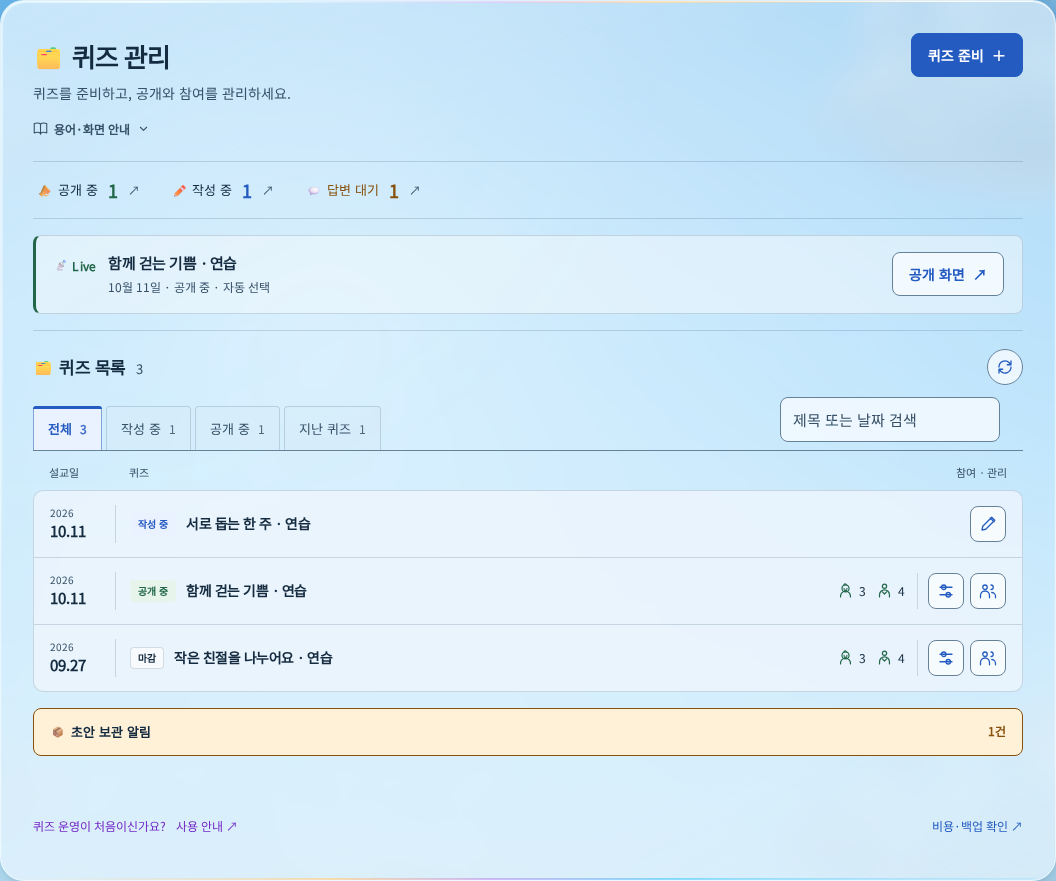
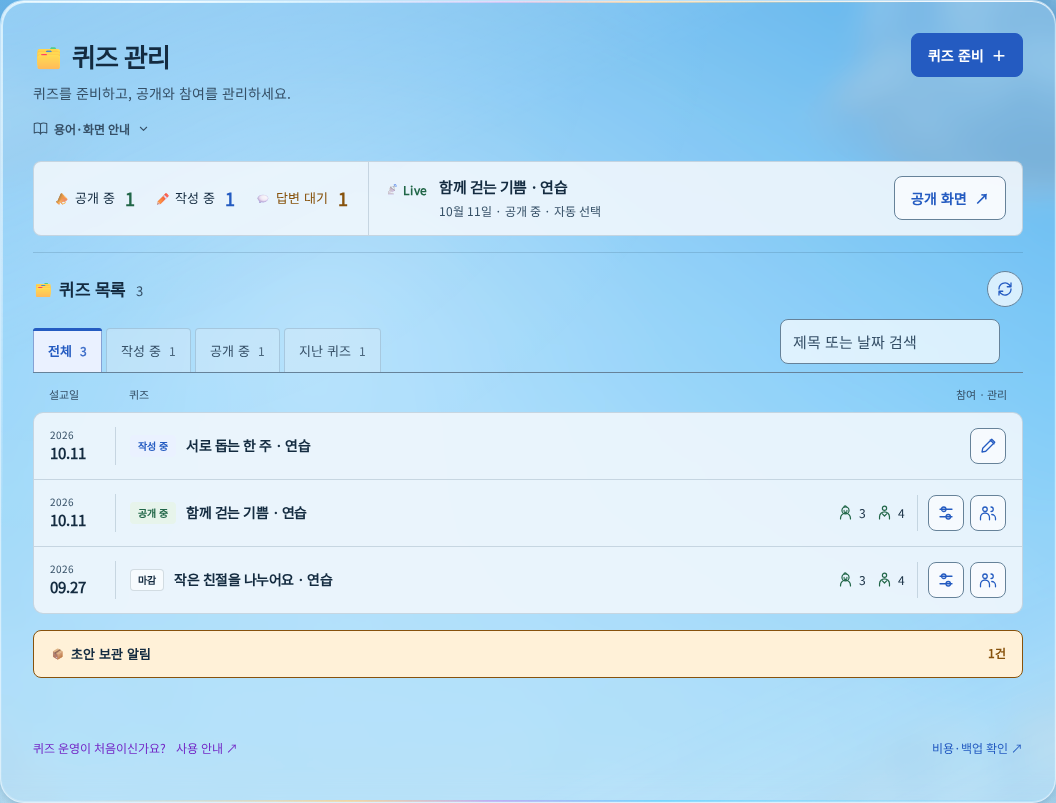
Separate clear admin shells and combine live overview

diff --git a/src/features/admin-weekly/dashboard.module.css b/src/features/admin-weekly/dashboard.module.css
@@ -1,13 +1,14 @@
 .page { display: grid; gap: 16px; min-width: 0; }
-.overview { display: flex; flex-wrap: wrap; align-items: center; gap: 4px 24px; padding-block: 10px; border-block: 1px solid var(--line); }
+.statusBar { display: flex; align-items: stretch; min-width: 0; border: 1px solid var(--line); border-radius: 8px; background: var(--admin-board-surface,var(--glass-solid)); }
+.overview { display: flex; flex-shrink: 0; align-items: center; gap: 12px; padding: 12px 16px; }
 .overview > :is(button,a) { display: flex; align-items: center; gap: 10px; min-height: 36px; padding: 0 4px; border: 0; border-radius: 4px; background: transparent; color: var(--ink); text-decoration: none; font-size: 13px; }
 .overview > :is(button,a):hover { background: var(--glass-soft); }
 .overview strong { font-size: 18px; font-weight: 600; font-variant-numeric: tabular-nums; }
-.overview > :is(button,a) > span:last-child { color: var(--muted); font-size: 12px; }
+.overview > :is(button,a) > span:last-child { display: none; }
 .overview > :first-child strong { color: var(--ui-success); }
 .overview > :nth-child(2) strong { color: var(--ui-action); }
 .overview > :nth-child(3) strong { color: var(--ui-attention); }
-.featured { display: flex; align-items: center; gap: 16px; padding: 14px 18px; background: color-mix(in srgb,var(--glass-solid) 60%,transparent); border: 1px solid var(--line); border-left: 3px solid var(--ui-success); border-radius: 8px; }
+.featured { display: flex; flex: 1; min-width: 0; align-items: center; gap: 12px; padding: 12px 16px; border-left: 1px solid var(--line); }
 .featuredCopy { flex: 1; display: grid; grid-template-columns: auto minmax(0,1fr); align-items: baseline; column-gap: 12px; min-width: 0; }
 .caption { display: inline-flex; align-items: center; color: var(--ui-success); font-size: 12px; font-weight: 700; letter-spacing: .02em; }
 :global(.sky-app:not(.home-shell) .admin-main) .featured h3 { margin: 0; font-family: 'Noto Sans KR',sans-serif; font-size: 15px; font-weight: 600; line-height: 1.7; overflow-wrap: anywhere; }
@@ -20,7 +21,7 @@
 .library > [data-admin-list-toolbar] { margin-bottom: 12px; }
 .search { width: min(100%,220px); }
 .search input { width: 100%; min-height: 40px; padding: 8px 12px; border: 1px solid var(--line); border-radius: 6px; background: var(--glass-field); color: var(--ink); font: inherit; font-size: 13px; }
-.quizList { margin: 0; padding: 0; list-style: none; border: 1px solid var(--line); border-radius: 10px; overflow: clip; background: color-mix(in srgb,var(--glass-solid) 76%,transparent); }
+.quizList { margin: 0; padding: 0; list-style: none; border: 1px solid var(--line); border-radius: 10px; overflow: clip; background: var(--admin-board-surface,var(--glass-solid)); }
 .quizList > li + li { border-top: 1px solid var(--line); }
 .quizRow { display: grid; grid-template-columns: 66px minmax(0,1fr) auto; gap: 14px; align-items: center; min-height: 66px; padding: 10px 16px; }
 .quizRow:hover, .quizRow:focus-within { background: var(--ui-action-bg); }
@@ -51,9 +52,14 @@
 .footer a { min-height: 44px; display: inline-flex; gap: 10px; align-items: center; text-underline-offset: 4px; }
 .footer > a:first-child { color: var(--ui-guide); }
 .alert { padding: 12px 16px; border-left: 3px solid var(--danger); background: var(--glass-reading); }
+@media (max-width: 1100px) {
+ .statusBar { flex-direction: column; }
+ .overview { justify-content: space-between; }
+ .featured { border-left: 0; border-top: 1px solid var(--line); }
+}
 @media (max-width: 760px) {
- .overview { gap: 4px 10px; }
- .overview > :is(button,a) { gap: 6px; font-size: 12px; }
+ .overview { gap: 6px; padding: 10px 12px; }
+ .overview > :is(button,a) { gap: 6px; font-size: 12px; padding-inline: 0; }
  .overview strong { font-size: 16px; }
  .featured { flex-wrap: wrap; padding: 12px; gap: 10px; }
  .featuredCopy { flex-basis: 100%; grid-template-columns: minmax(0,1fr); }
@@ -69,3 +75,5 @@
  .boardHeading > :last-child { display: none; }
 }
 @media (pointer: coarse) { .participant, .overview > :is(button,a) { min-height: 44px; } }
+
+@media (max-width: 360px) { .overview > :is(button,a) > span:first-child > [aria-hidden] { display: none; } }

diff --git a/docs/design/phase-9/admin-boards/review.html b/docs/design/phase-9/admin-boards/review.html
@@ -7,9 +7,9 @@ body{margin:0;background:#eaf4fa;color:#17334a;font:15px/1.7 system-ui,sans-seri
 </style>
 <main>
 <h1>관리자 실제 화면과 생성 시안</h1>
-<p>2026년 10월 14일 적용 화면입니다. 실제 React UI에 연습 자료를 표시해 촬영했습니다. 이미지를 누르면 원본을 크게 볼 수 있습니다.</p>
+<p>2026년 10월 14일 적용 화면입니다. 바깥 창은 투명하게, 현황과 목록은 선명한 바탕으로 구분했습니다. 실제 React UI에 연습 자료를 표시해 촬영했으며, 이미지를 누르면 원본을 크게 볼 수 있습니다.</p>
 <nav aria-label="실제 관리자 화면"><a href="/admin">퀴즈 관리 열기</a><a href="/admin/submissions">참여 기록 열기</a><a href="/admin/privacy-requests">문의·삭제 요청 열기</a></nav>
-<section><h2>퀴즈 관리</h2><p>짧은 운영 요약과 Live 영역 아래에 설교일·제목·참여 인원·작업 아이콘을 모았습니다.</p><figure class="quiz"><figcaption>실제 화면 · 연습 자료</figcaption><a href="quiz-actual.png"><img src="quiz-actual.png" alt="실제 퀴즈 관리: 간결한 운영 요약과 설교일 기준 게시판"></a></figure></section>
+<section><h2>퀴즈 관리</h2><p>공개 중·작성 중·답변 대기 현황과 Live 퀴즈를 한 행으로 묶었습니다. 그 아래 게시판에는 설교일·제목·참여 인원·작업 아이콘을 모았습니다.</p><figure class="quiz"><figcaption>실제 화면 · 연습 자료</figcaption><a href="quiz-actual.png"><img src="quiz-actual.png" alt="실제 퀴즈 관리: 한 행의 현황·Live와 설교일 기준 게시판"></a></figure></section>
 <section><h2>참여 기록</h2><p>행을 펼치면 왼쪽에는 답안과 코멘트, 오른쪽에는 처리 폼이 나타납니다. 시안의 정오답 색 대신 실제 제출값을 표시합니다.</p><div class="compare"><figure><figcaption>실제 화면 · 연습 자료</figcaption><a href="submissions-actual.png"><img src="submissions-actual.png" alt="실제 참여 기록: 한 행을 펼친 답안과 관리 폼, 나머지 짧은 행"></a></figure><figure><figcaption>기존 생성 시안 · 배치 참고</figcaption><a href="submissions-reference.png"><img src="submissions-reference.png" alt="참여 기록의 기존 생성 시안"></a></figure></div></section>
 <section><h2>문의·삭제 요청</h2><p>접힌 행에는 이름·분류·상태·날짜와 한 줄 미리보기가 보입니다. 펼치면 전체 원문과 상태·답변 폼을 확인할 수 있습니다.</p><div class="compare"><figure><figcaption>실제 화면 · 연습 자료</figcaption><a href="inquiries-actual.png"><img src="inquiries-actual.png" alt="실제 문의 게시판: 펼친 요청의 상태 선택과 답변 입력, 접힌 나머지 요청"></a></figure><figure><figcaption>기존 생성 시안 · 배치 참고</figcaption><a href="inquiries-reference.png"><img src="inquiries-reference.png" alt="문의 게시판의 기존 생성 시안"></a></figure></div></section>
 <small>기존 생성 이미지는 재사용했습니다. 실제 화면 이미지에는 개인 자료나 실제 운영 답안을 포함하지 않았습니다.</small>

diff --git a/src/features/admin-weekly/Dashboard.tsx b/src/features/admin-weekly/Dashboard.tsx
@@ -47,9 +47,10 @@ export function Component() {
   const featured = items.find(q => q.quizSetId === data?.homeQuiz?.quizSetId);
   const rows = items.filter(q => (filter === "all" || (filter === "draft" ? isDraft(q) : q.status === filter)) && `${q.title} ${q.sermonDate}`.includes(search.trim()));
   const due = cleanup?.items.filter(q => q.state === "blocked" || (q.state !== "purged" && q.dueAt && Date.parse(q.dueAt) - checkedAt <= 86_400_000)) ?? [];
-  return <div className={styles.page}>
+  return <div className={styles.page} data-admin-board="quizzes">
     <AdminBoardHeader title="퀴즈 관리" description="퀴즈를 준비하고, 공개와 참여를 관리하세요." terms={["초안", "발행", "자동 선택", "대표 지정"]} screenshots={["dashboard"]} actions={<ButtonLink variant="primary" to="/admin/new">퀴즈 준비 <span aria-hidden="true">＋</span></ButtonLink>}/>
     {message && <p className={styles.alert} role="alert">{message}</p>}
+    <div className={styles.statusBar} data-admin-summary>
     <div className={styles.overview} aria-label="운영 요약">
       <button type="button" onClick={() => setFilter("published")}><span><AdminEmoji>📣</AdminEmoji>공개 중</span><strong>{data ? published.length : "—"}</strong><span aria-hidden="true">↗</span></button>
       <button type="button" onClick={() => setFilter("draft")}><span><AdminEmoji>✏</AdminEmoji>작성 중</span><strong>{data ? drafts.filter(q => !q.expired).length : "—"}</strong><span aria-hidden="true">↗</span></button>
@@ -62,6 +63,7 @@ export function Component() {
       </div>
       {featured?.slug && <ButtonLink to={`/quiz/${featured.slug}`}>공개 화면 <span aria-hidden="true">↗</span></ButtonLink>}
     </section>}
+    </div>
     <section className={styles.library} aria-labelledby="quiz-library-heading" aria-busy={loading}>
       <div className={styles.sectionHeading}><h3 id="quiz-library-heading"><AdminLabel text="퀴즈 목록"/> <span>{items.length}</span></h3>
         <AdminRefreshButton disabled={loading} onClick={() => { setMessage(""); setLoading(true); setAttempt(v => v + 1); }} label="운영 상태 새로고침" title="퀴즈 목록 새로고침"/>

diff --git a/src/features/admin-weekly/Submissions.tsx b/src/features/admin-weekly/Submissions.tsx
@@ -25,7 +25,7 @@ export function Component(){
       setMessage('참여 기록의 처리 결과를 저장했습니다.');setAttempt(a=>a+1);
     }catch(error){setMessage(error instanceof Error?error.message:'처리 결과를 확인하지 못했습니다.');}finally{setBusy(false);}}
   const visible=items?.filter(i=>(level==='all'||i.difficulty===level)&&(state==='all'||i.status===state));
-  return <div className={record.page}>
+  return <div className={record.page} data-admin-board="submissions">
     <AdminBoardHeader terms={["숨김", "개인정보 삭제", "Top N"]} screenshots={["submissions"]} title="참여 기록" description="퀴즈별 답안과 코멘트를 확인하고 공개 여부를 관리하세요." actions={<AdminRefreshButton label="제출 목록 새로고침" disabled={busy||!id} onClick={()=>{setMessage('');setAttempt(a=>a+1);}}/>}/>
     <div className={record.fields}>
       <label>관리할 퀴즈<select value={id} disabled={busy} onChange={e=>{setResult(null);setMessage('');setQuery({quiz:e.target.value});}}><option value="">퀴즈 선택</option>{quizzes.filter(q=>['published','archived'].includes(q.status)).map(q=><option key={q.quizSetId} value={q.quizSetId}>{q.sermonDate} · {q.title}</option>)}</select></label>

diff --git a/src/styles/interior.css b/src/styles/interior.css
@@ -130,3 +130,16 @@ body[data-time=night] .admin-layout {
 .sky-app:not(.home-shell) .admin-main .secondary-button:not(:disabled):not([aria-disabled=true]) { color: var(--ui-action); }
 .sky-app:not(.home-shell) .admin-main .secondary-button:hover:not(:disabled):not([aria-disabled=true]) { background: var(--ui-action-bg); border-color: var(--ui-action); }
 @media (forced-colors: active) { .sky-app:not(.home-shell) .admin-main .secondary-button:not(:disabled):not([aria-disabled=true]) { color: ButtonText; } }
+
+/* Board shells show the sky; a stronger surface belongs to the records themselves. */
+.sky-app .admin-main:has(> [data-admin-board]) {
+  --admin-board-surface: color-mix(in srgb,var(--glass-solid) 90%,transparent);
+  background: var(--glass-clear);
+}
+body[data-transparency=reduced] .admin-main:has(> [data-admin-board]) { --admin-board-surface: var(--glass-solid); }
+@media (prefers-reduced-transparency: reduce) {
+  .sky-app .admin-main:has(> [data-admin-board]) { --admin-board-surface: var(--glass-solid); }
+}
+@media (forced-colors: active) {
+  .sky-app .admin-main:has(> [data-admin-board]) { --admin-board-surface: Canvas; background: Canvas; }
+}

diff --git a/src/features/admin-weekly/PrivacyInbox.tsx b/src/features/admin-weekly/PrivacyInbox.tsx
@@ -16,7 +16,7 @@ export function Component(){
   const [filter,setFilter]=useState('pending');
   const pending=(status:string)=>status==='received'||status==='reviewing';
   const visible=items?.filter(item=>filter==='all'||(filter==='pending'?pending(item.status):!pending(item.status)));
-  return <div className={record.page}>
+  return <div className={record.page} data-admin-board="inquiries">
     <AdminBoardHeader terms={["처리 완료", "개인정보 삭제"]} screenshots={["privacy"]} title="문의·삭제 요청" description="문의 내용을 확인하고 답변을 남기세요."/>
     <AdminFilterTabs label="문의 상태 필터" value={filter} onChange={setFilter} options={([['pending','답변 대기'],['done','처리한 문의'],['all','전체']] as const).map(([value,label])=>({value,label,count:items?.filter(item=>value==='all'||(value==='pending'?pending(item.status):!pending(item.status))).length??'—'}))}>
       <AdminRefreshButton label="문의 목록 새로고침" disabled={busy} onClick={()=>{setMessage('');setAttempt(a=>a+1);}}/>

diff --git a/src/features/admin-weekly/records.module.css b/src/features/admin-weekly/records.module.css
@@ -1,5 +1,5 @@
 .page { display: grid; gap: 16px; min-width: 0; }
-.list { display: grid; gap: 0; list-style: none; padding: 0; margin: 0; border: 1px solid var(--line); border-radius: 10px; background: color-mix(in srgb,var(--glass-solid) 76%,transparent); min-width: 0; overflow: clip; }
+.list { display: grid; gap: 0; list-style: none; padding: 0; margin: 0; border: 1px solid var(--line); border-radius: 10px; background: var(--admin-board-surface,var(--glass-solid)); min-width: 0; overflow: clip; }
 .list:empty { display: none; }
 .fields { display: grid; grid-template-columns: minmax(0,2fr) minmax(0,1fr) minmax(0,1fr); gap: 12px; align-items: end; padding-bottom: 16px; border-bottom: 1px solid var(--line); }
 .fields label { display: grid; gap: 6px; min-width: 0; font-size: 12px; color: var(--muted); }

diff --git a/docs/HANDOFF.md b/docs/HANDOFF.md
@@ -2,18 +2,18 @@
 
 ## 현재 작업과 Git
 
-**P9-23 기존 시안에 맞춘 세 관리자 게시판 — 로컬 완료.** `/home/onegem/work/bibleQuiz`, main `d3091ec` / clean에서 재개했다. 이번 커밋 제목은 `Match admin boards to existing design references`다. 정확한 마지막 해시와 작업 폴더는 `git log -1`·`git status --short`로 확인한다. 후속 보정은 같은 P9-23에서 처리한다.
+**P9-23 세 게시판의 투명 창과 현황·Live 통합 — 로컬 완료.** `/home/onegem/work/bibleQuiz`, main `face652` / clean에서 재개했다. 이번 커밋 제목은 `Separate clear admin shells and combine live overview`다. 정확한 마지막 해시와 작업 폴더는 `git log -1`·`git status --short`로 확인한다. 후속 보정은 같은 P9-23에서 처리한다.
 
 ## 변경과 검사
 
-- `AdminListTools`의 AdminBoardHeader: 고딕 제목·오른쪽 동작·접힌 용어/화면 안내를 세 페이지에서 공유한다. Dashboard의 요약/Live/목록 표면·간격을 줄이고 설교일/인원/정사각형 작업 링크는 유지한다.
-- `AdminRecord`는 행 전체 native details다. 펼친 참여는 답안/관리, 문의는 원문 아래 상태/답변을 좌우 배치하고 모바일은 한 열이다. 입력 유지·기존 API/확인/삭제/충돌 보호와 처리 이력을 보존한다. 문의의 관련 퀴즈 링크는 펼친 원문 오른쪽에 있다.
-- 최초 PC/모바일34건 중32통과·2실패는 모바일 summary 안의 링크 클릭 충돌이었다. UI에서 링크를 분리한 뒤 관련48건 및 최종 PC/모바일/Firefox9건 통과. 최종 lint/typecheck/build, 합성 자료 캡처2회 통과. 기존 router POP/NO_COLOR·fontkit/chunk 경고는 유지한다.
-- 실제5173 세 경로의 네 시간대 ×1440/390/320px·펼침/접힘60상태 및 최종 모바일40상태에서 넘침/페이지 오류/API 쓰기0. 입력 보존·Enter/Space·새로고침 중앙/크기도 확인했다. PC 닫힌 행은 퀴즈66px, 참여72~73px, 문의98~99px. 두 시안·실제 주요 PNG를 직접 비교했다.
-- 설명용 PNG3종과 비교 페이지용 실제 UI3장을 합성 GET 자료로 촬영했다. 기존5개 설명 자산과 시안2장 보존. 비교 페이지의 이미지5개는 HTTP200/image/png·디코딩·320px 넘침 없음 확인. 새 이미지의 사용자 기기 표시 확인과 구별한다.
-- 상세 변경·최초 실패·재검사·한계는 [P9-23 기록](work/P9-23.md#기존-시안에-맞춘-세-게시판-재구현), ignored 증거는 `.wrangler/releases/p9-23/reference-*`다. 전체check/전체E2E·Safari/실기기/화면 읽기 프로그램은 이번 범위에서 실행하지 않았다.
+- Dashboard/Submissions/PrivacyInbox의 바깥 창만 맑은 유리로 전환했다. 현황·목록에는 공통 시간대별90% 바탕을 두고 펼친 내용의 읽기 층은 보존한다. 선명하게/투명도 감소·강제 색상은 불투명 대체 표면을 유지한다.
+- Dashboard 현황3개와 Live를 한 행으로 합쳤다. 1100px 이하에서는 같은 영역의 두 줄이며320px에서도 이름/숫자를 유지한다. 기존 선택/필터/링크·새로고침·접기와 입력·자료는 보존했다.
+- 관련 게시판/운영 요약/유리 E2E PC·모바일14건, lint/typecheck, 합성 자료 캡처1건 통과. NO_COLOR 경고는 기존 환경 경고다. 이번 보정에서는 build/전체check/전체E2E·Firefox를 반복하지 않았다. 직전 `face652`의 빌드/Firefox 검사와 구별한다.
+- 실제5173의 세 경로·네 시간대 ×1440/390/320px·접힘/펼침60상태에서 넘침/페이지 오류/API 쓰기0. PC 현황/Live 같은 행, 새로고침 정렬·키보드/입력 보존 확인. 낮/밤 선명하게·강제 색상4상태도 확인했다. 주요 화면 PNG를 직접 열어 대조했다.
+- 설명용 PNG3종과 비교용 실제 UI3장을 합성 GET 자료로 재촬영했다. 다른5개 설명 자산·기존 시안2장 보존. 비교 페이지 이미지5개의 HTTP200/image/png·디코딩·320px 넘침 없음을 확인했으며 사용자 기기의 표시 확인과 구별한다.
+- [P9-23 현재 기록](work/P9-23.md#투명한-창과-현황live-한-행), ignored 증거 `.wrangler/releases/p9-23/clear-boards-*`. Safari/실기기/화면 읽기 프로그램·원격 반영은 미검증이다.
 
-폐기한 접근: 본문/여러 도구 줄을 계속 노출하는 행, summary 안에 이동 링크를 섞기, 시안 가상 정오답/사진을 실제 데이터로 만들기, 시안만 만들고 UI 적용으로 보고하기. 이전 매뉴얼·필터의 실패 재시도·공통 접기 정렬·색상/아이콘은 보존했다.
+폐기한 접근: 바깥 창까지 같은 읽기 바탕을 덮기, 현황과 Live를 별도 큰 영역으로 나누기, 모바일 한 행을 강제해 내용을 자르기. 이전 매뉴얼·필터 재시도·접기 정렬·공통 게시판/버튼은 보존한다.
 
 ## 실행과 다음 첫 작업
 
@@ -26,7 +26,7 @@
 
 도구는 검증된 `/bin/bash`, `login:false`, 명시 workdir, `require_escalated` 승인 검토 경로를 쓴다. 시작 전 ENOENT를 WSL 단절로 판단하거나 승인 거부를 우회하지 않는다. 이미지는 확인된HTTP/첨부로 보여주며 WSL 경로 Markdown만 보내지 않는다.
 
-시작 Pro 잔여86% × 사용자 지정10 =860%, 별도5시간 창 없음. 다음 구현 전 사용량을 확인한다. 읽기 순서: AGENTS → PROJECT_CONTEXT → DECISIONS → STATUS → HANDOFF → implementation 관련 명세 → P9-23 → Git 상태/diff/log.
+시작 Pro 잔여84% × 사용자 지정10 =840%, 별도5시간 창 없음. 다음 구현 전 사용량을 확인한다. 읽기 순서: AGENTS → PROJECT_CONTEXT → DECISIONS → STATUS → HANDOFF → implementation 관련 명세 → P9-23 → Git 상태/diff/log.
 
 push/배포·실제 자료 쓰기·AI 호출·새 의존성은 없다. Preview는 P9-14 소스 `0fbde84` / version `cd6efb0e-2c05-4401-b0bf-692bdf18c5b1`, Production은 P9-04 소스 `37b7254` / version `7aea6843-5288-42da-9bef-bc673e1d9dfe` 그대로다.
 

diff --git a/docs/work/P9-23.md b/docs/work/P9-23.md
@@ -195,6 +195,17 @@ Git 제외 증거는 `.wrangler/releases/p9-23/editorial/`: `e2e-admin.log`, `e2
 
 증거는 ignored `.wrangler/releases/p9-23/reference-*`의 실행 로그·JSON·실화면 캡처다. 디자인 정본/결정/상태/인계·자산 목록을 갱신하고 검토한 파일만 로컬 커밋한다. 새 의존성·AI 호출·기존 로컬 자료 쓰기·원격 변경·push/배포는 없다. 폐기한 접근: 시안만 만들고 실제 적용으로 보고하기, 행마다 본문/도구 버튼을 계속 노출하기, 접기 summary 안에 별도 이동 링크를 섞기, 시안의 가상 정오답을 실제 데이터처럼 표현하기.
 
+## 투명한 창과 현황·Live 한 행
+
+2026-10-14. 사용자 후속 요청으로 main `face652` / clean에서 같은 P9-23을 재개했다. 경로 `/home/onegem/work/bibleQuiz`, 시작 Pro 잔여84% × 사용자 기준10 =840%, 별도5시간 창 없음. 추천 GPT-6.1-sol/medium. 기존 생성 시안을 재사용했다.
+
+- Dashboard/Submissions/PrivacyInbox의 세 바깥 창에만 맑은 유리 바탕을 적용했다. 현황과 목록은 공통 `--admin-board-surface`(기존 시간대 불투명색90%)를 사용하고 펼친 내용의 읽기 층은 보존한다. 선명하게/투명도 감소·강제 색상의 대체 표면을 유지했다.
+- Dashboard의 현황3개와 Live를 한 영역·한 행으로 합쳤다. 1100px 이하에서는 같은 영역 안의 두 줄로 이어지며320px에서도 현황 이름과 숫자가 함께 보인다. 필터/링크·데이터·공개 퀴즈 선택·새로고침·행 접기·키보드/입력 보존은 바꾸지 않았다.
+- 관련 `admin-boards`/`admin-overview`/`admin-glass` Chromium PC·모바일 E2E14건, lint/typecheck, 합성 자료 캡처1건 모두 통과했다. 실제5173의 세 경로 × 네 시간대 ×1440/390/320px·펼침/접힘60상태에서 가로 넘침/페이지 오류/API 쓰기0. PC 현황·Live의 같은 행 정렬, 새로고침 중심/크기, 키보드·입력 유지를 확인했다. 낮/밤 선명하게·강제 색상4상태도 넘침 없이 확인했다. 주요 네 시간대·320px·펼친 밤 화면을 직접 열어 대조했다.
+- 설명용 dashboard/submissions/privacy PNG3종과 비교 페이지 실제 UI3장을 합성 GET으로 다시 촬영했다. 나머지5개 설명 자산·기존 생성 시안2장은 보존했다. 비교 페이지의 이미지5개 HTTP200/image/png·디코딩·320px 넘침 없음을 확인했다. 사용자 기기의 새 이미지 표시 확인과는 구별한다.
+
+증거는 ignored `.wrangler/releases/p9-23/clear-boards-*`다. 이번 작은 표면·배치 보정에서는 build/전체check/전체E2E·Firefox·Safari·실기기·화면 읽기 프로그램 검사를 반복하지 않았다. 직전 재구현의 빌드/Firefox 통과 기록과 이번 검사 범위를 구별한다. 문서·자산 정보를 갱신하고 로컬 커밋한다. 기존5173 자료·의존성·AI·원격·push/배포는 바꾸지 않았다. 폐기한 접근: 바깥 창까지 같은 읽기 바탕으로 채우기, 현황과 Live를 별도 큰 영역으로 나누기, 작은 화면까지 한 행을 강제해 글자를 잘라내기.
+
 ## 한계와 보존
 
 이모지의 모양은 기기의 시스템 글꼴에 따라 달라진다. WSL의 미설치 글꼴로 인한 빈 네모는 캡처에서만 이미 설치된 Windows 글꼴을 읽어 해결했고 앱에 글꼴을 배포하지 않는다. 새 화면 예시는 연습 자료이며 실제 운영 검증 증거가 아니다. 실기기·화면 읽기 프로그램·원격 인증/배포는 이번 검증 범위에 포함하지 않는다. Phase/배포 단위의 전체 필수 검사는 별도 경계에서 수행한다.

diff --git a/docs/design/phase-9/admin-boards/README.md b/docs/design/phase-9/admin-boards/README.md
@@ -10,17 +10,17 @@ HTTP 확인 주소: `http://localhost:5173/docs/design/phase-9/admin-boards/subm
 
 2026-10-14 사용자 재현 요청에 따라 실제 `/admin`, `/admin/submissions`, `/admin/privacy-requests`를 다시 적용했다. 기존에는 본문과 도구 버튼이 항상 보였으나 이제 시안처럼 짧은 행 전체를 펼친다. 참여는 답안/관리, 문의는 상태/답변을 좌우로 배치하고 모바일에서는 위아래로 놓는다. 문의의 관련 퀴즈 링크는 행 클릭과 겹치지 않도록 펼친 본문에 둔다.
 
-시안의 개별 행 틈은 사용자의 연속 게시판 요청에 따라 없앴다. 가상 정오답 색·인물 사진은 만들지 않았고 실제 답안 좌표/입력값과 기존 선 아이콘을 쓴다. 하늘·투명 표면·다섯 의미 색상은 유지한다. 퀴즈 관리도 같은 표면/타이포에 맞춰 요약과 Live를 줄이고66px 행을 사용한다.
+시안의 개별 행 틈은 사용자의 연속 게시판 요청에 따라 없앴다. 가상 정오답 색·인물 사진은 만들지 않았고 실제 답안 좌표/입력값과 기존 선 아이콘을 쓴다. 하늘·투명 표면·다섯 의미 색상은 유지한다. 바깥 창은 맑은 유리, 핵심 현황·목록·펼친 내용은 선명한 바탕으로 구분했다. 퀴즈 관리의 현황3개와 Live는 한 행으로 합쳤고66px 목록 행을 유지한다. 작은 화면에서는 같은 현황 영역 안에서 두 줄로 이어진다.
 
-적용 진입점은 `AdminBoardHeader`/`AdminListTools`·`AdminRecord`다. 수치·동작은 [디자인 정본](../../../spec/design.md#p9-23-후속--시안에-맞춘-세-게시판), 실제 검사는 [작업 기록](../../../work/P9-23.md#기존-시안에-맞춘-세-게시판-재구현)을 따른다.
+적용 진입점은 `AdminBoardHeader`/`AdminListTools`·`AdminRecord`다. 수치·동작은 [디자인 정본](../../../spec/design.md#p9-23-후속--시안에-맞춘-세-게시판), 실제 검사는 [작업 기록](../../../work/P9-23.md#투명한-창과-현황live-한-행)을 따른다.
 
 | 실제 UI 촬영본 | 해상도 | bytes |
 |---|---|---|
-| quiz-actual.png | 1056×881 | 222,496 |
-| submissions-actual.png | 1056×1106 | 253,156 |
-| inquiries-actual.png | 1056×932 | 201,374 |
+| quiz-actual.png | 1056×803 | 228,090 |
+| submissions-actual.png | 1056×1106 | 269,338 |
+| inquiries-actual.png | 1056×932 | 217,114 |
 
-실제 React UI에 합성 GET 자료만 넣어 촬영했으며 공개 가능한 연습 자산이다. 재현 명령은 [화면 예시 자산](../admin-guide/README.md)을 따른다. 기존 실제5173 자료를 촬영한 내부 검수 증거는 ignored `.wrangler/releases/p9-23/reference-*`에 별도 보관하며 정적 자산으로 복사하지 않았다.
+실제 React UI에 합성 GET 자료만 넣어 촬영했으며 공개 가능한 연습 자산이다. 재현 명령은 [화면 예시 자산](../admin-guide/README.md)을 따른다. 기존 실제5173 자료를 촬영한 내부 검수 증거는 ignored `.wrangler/releases/p9-23/clear-boards-*`에 별도 보관하며 정적 자산으로 복사하지 않았다.
 
 생성 원본은 Windows Codex generated_images의 현재 대화 폴더에 그대로 남겼다. 이 경로에는 배포된 AI 결과나 실제 참여자 자료가 들어 있지 않다.
 

diff --git a/docs/STATUS.md b/docs/STATUS.md
@@ -1,12 +1,12 @@
 # 현재 상태
 
-## P9-23 기존 시안에 맞춘 세 관리자 게시판 — 로컬 완료
+## P9-23 세 게시판의 투명 창과 현황·Live 통합 — 로컬 완료
 
-퀴즈 관리·참여 기록·문의 요청을 기존 두 생성 시안과 대조해 실제 화면에 다시 적용했다. 고딕 제목/접힌 안내·짧은 요약/Live·밝은 반투명 게시판 표면을 통일했다. 참여/문의는 짧은 행을 펼치면 답안/관리 또는 상태/답변을 좌우로 읽고, 모바일은 한 열로 배치한다. 입력 유지·기존 API/확인/삭제·말풍선·설교일/아이콘·이전 필터 재시도/접기 정렬을 보존한다. [현재 기준](spec/design.md#p9-23-후속--시안에-맞춘-세-게시판).
+퀴즈 관리·참여 기록·문의 요청의 바깥 창을 더 투명하게 바꾸고 현황·목록·펼친 내용에 선명한 바탕을 집중했다. 퀴즈 현황3개와 Live 한 건은 넓은 화면에서 한 행, 작은 화면에서는 같은 영역 안의 두 줄이다. 이전 게시판·입력 유지·기존 API/확인/삭제·말풍선·설교일/아이콘·필터 재시도/접기 정렬을 보존한다. [현재 기준](spec/design.md#p9-23-후속--시안에-맞춘-세-게시판).
 
-관련 PC/모바일48건 및 최종 PC/모바일/Firefox9건·lint/typecheck/build·캡처2회 통과. 실제 네 시간대·1440/390/320px60상태와 최종 모바일40상태에서 넘침/페이지 오류/자료 쓰기0. 첫34건 중 문의 행 내부 링크 충돌2건 실패는 링크를 본문으로 옮겨 해결했다. [변경·검사·한계](work/P9-23.md#기존-시안에-맞춘-세-게시판-재구현).
+이번 관련 PC/모바일 E2E14건·lint/typecheck·합성 자료 캡처1건 통과. 실제 네 시간대·1440/390/320px60상태에서 넘침/페이지 오류/자료 쓰기0, 낮/밤 선명하게·강제 색상4상태도 확인했다. [변경·검사·한계](work/P9-23.md#투명한-창과-현황live-한-행).
 
-[실제 화면3장과 시안2장 비교](design/phase-9/admin-boards/review.html)의 HTTP·PNG·디코딩을 확인했다. 사용자 기기의 새 이미지 표시 확인, 실기기·Safari·화면 읽기 프로그램·원격 반영은 별도다. 전체check/전체E2E는 이번 범위에서 반복하지 않았다. 새 의존성·AI 호출·push·배포는 없다.
+[실제 화면3장과 시안2장 비교](design/phase-9/admin-boards/review.html)의 실제 촬영본과 설명용 PNG3종을 갱신했고 HTTP·PNG·디코딩을 확인했다. 사용자 기기의 새 이미지 표시 확인, 실기기·Safari·화면 읽기 프로그램·원격 반영은 별도다. build/전체check/전체E2E·Firefox는 이번 작은 보정에서 반복하지 않았다. 새 의존성·AI 호출·push·배포는 없다.
 
 **현재 P9-23 로컬 완료 · 부모 관리자 이해 돕기 로컬 완료 · 다음 사용자 화면 확인/피드백 · 세션 유지 · 다음 추천 GPT-6.1-sol/medium** — 공통 규칙 안의 작은 보정에 적합하다.
 
